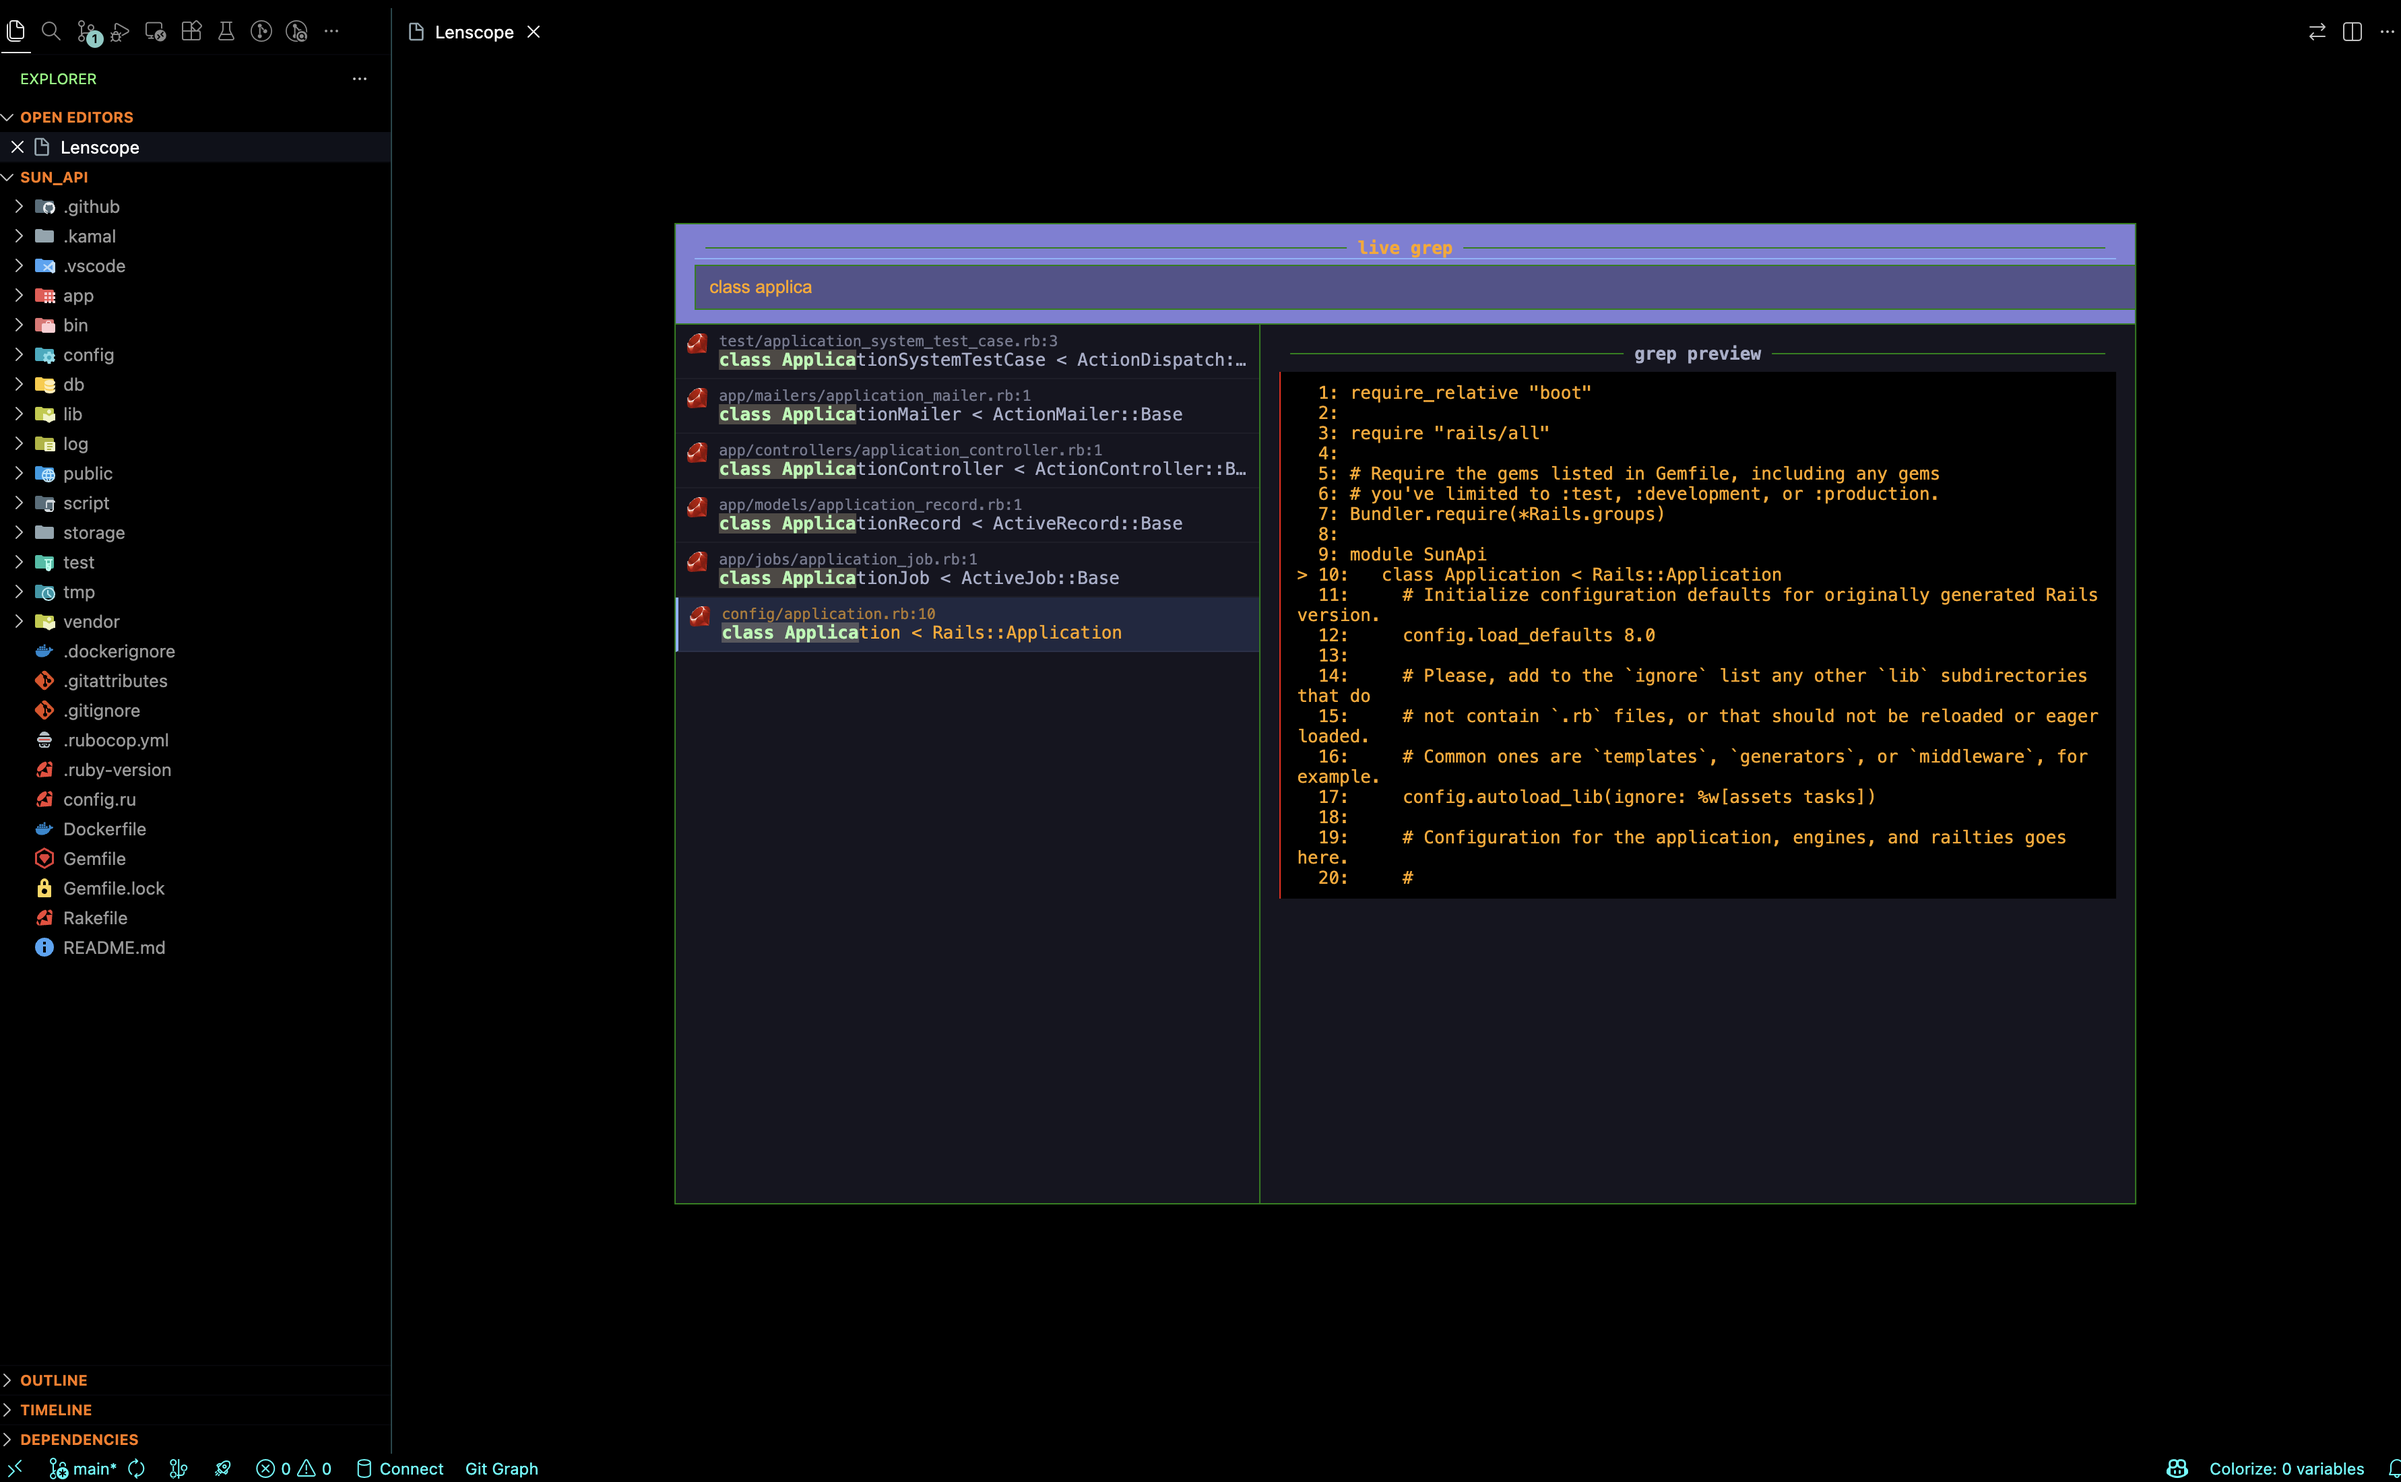
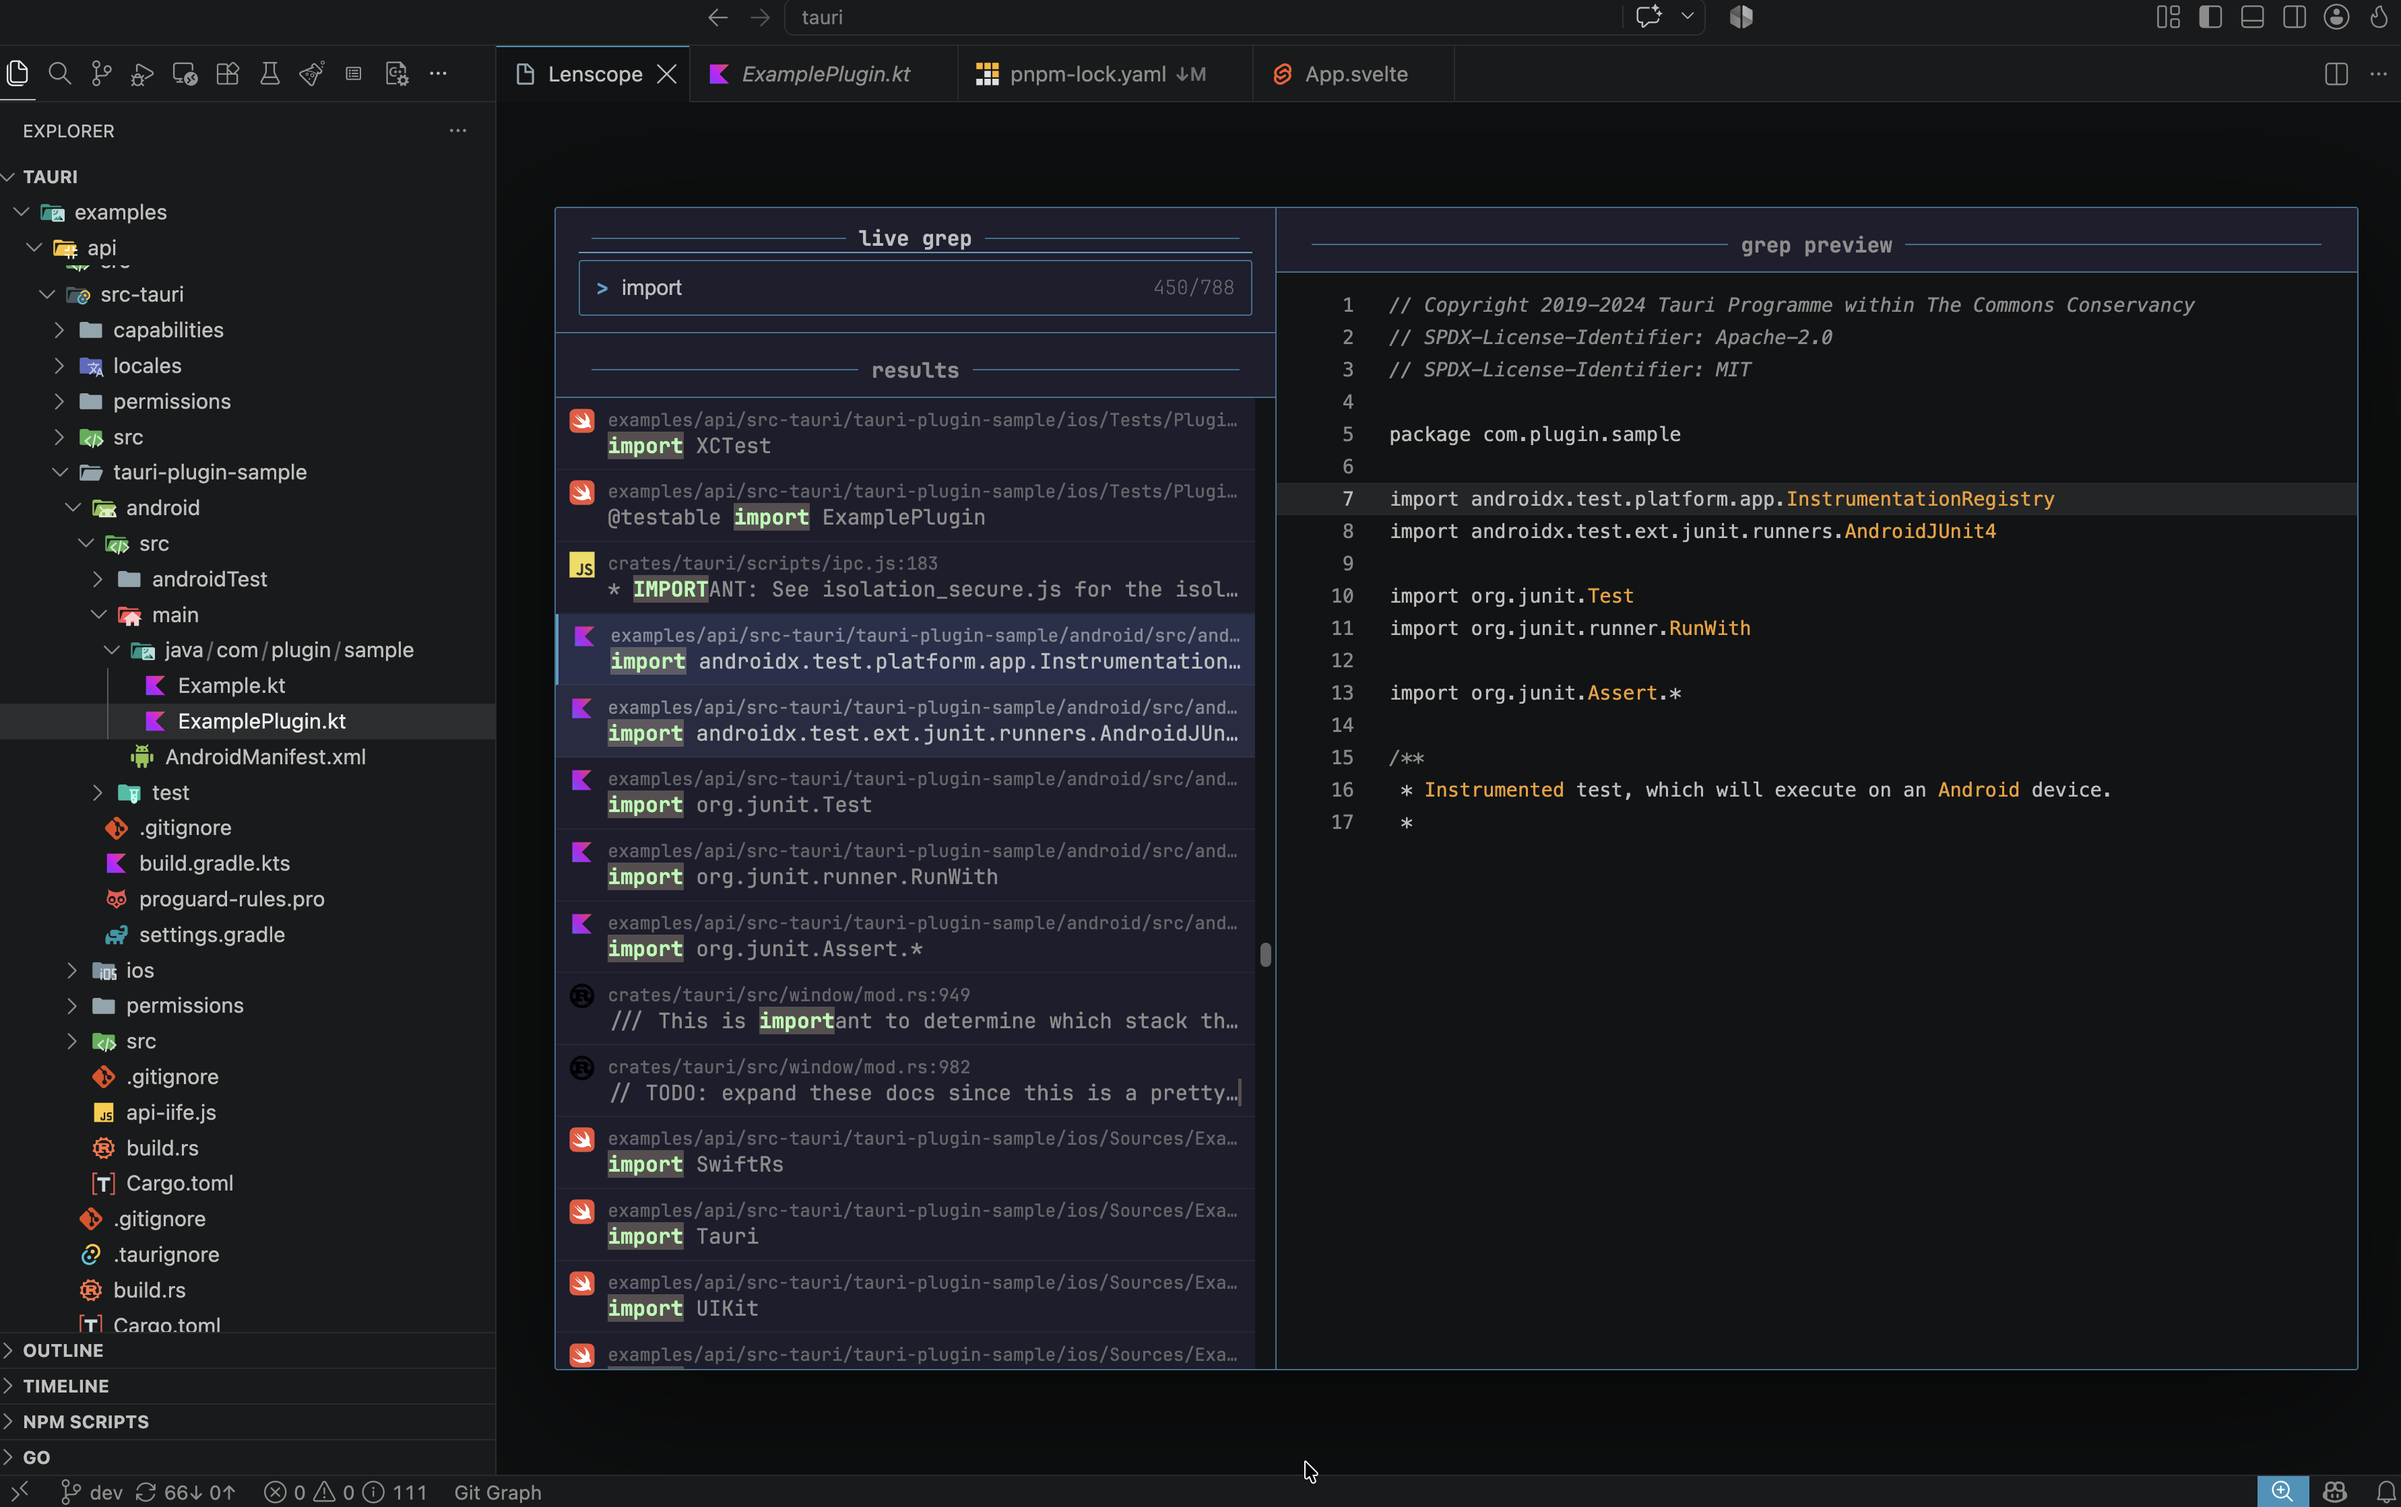
updated README

diff --git a/README.md b/README.md
@@ -1,16 +1,32 @@
 # Lenscope
-
-**WORK IN PROGRESS**
-
 Gaze deeply into unknown regions using the power of the moon 🔭.
+
+> [!WARNING]
+>
+> **Lenscope is currently a work in progress.**
+>
+> The project is still being developed and features, behaviour may chnage without notice.
+>
+> **Contributions are currently not being accepted.** If you'd like to
+> experiment with Lenscope or customise it for your own use, you're welcome to
+> **fork the repository, build the project, and package it as a `.vsix` file**
+> for personal use.
+>
+> Contribution support may be opened in the future once the project has
+> stabilised.
+
+
 ## 🖼 Screenshots
 ![live_grep Preview](./media/resources/live_grep.png)
 
 
 ![live_grep Preview](./media/resources/live_grep2.png)
+
+
+![live_grep Preview](./media/resources/live_grep3.png)
 ## What Is Lenscope?
- 
-`lenscope` is a [telescope.nvim](https://github.com/nvim-telescope/telescope.nvim) inspired fuzzy finder for Visual Studio Code powered by  [ripgrep](https://github.com/BurntSushi/ripgrep).
+
+`lenscope` is a [telescope.nvim](https://github.com/nvim-telescope/telescope.nvim) inspired fuzzy finder for Visual Studio Code powered by [ripgrep](https://github.com/BurntSushi/ripgrep).
 
 ## What Is ripgrep?
 
@@ -65,7 +81,7 @@ $ winget install BurntSushi.ripgrep.MSVC
 - npm
 - VS Code
 - ripgrep (rg)
-   
+
 ### Setup
 
 Clone the repository:
@@ -104,6 +120,22 @@ Open the project in VS Code and press:
 F5
 
 This launches an Extension Development Host with `Lenscope` loaded and accessible from the Command palette.
+
+
+### Packaging for Personal Use
+If you'd like to use a fork of Lenscope locally, you can package the extension as a .vsix file.
+
+Verify everything is working:
+```
+$ npm run package
+```
+This generates a .vsix package that can be installed locally in VS Code.
+
+To install the package, open the VS Code Command Palette and run:
+
+Extensions: Install from VSIX...
+
+Then select the generated .vsix file.
 
 ## Tooling
 
